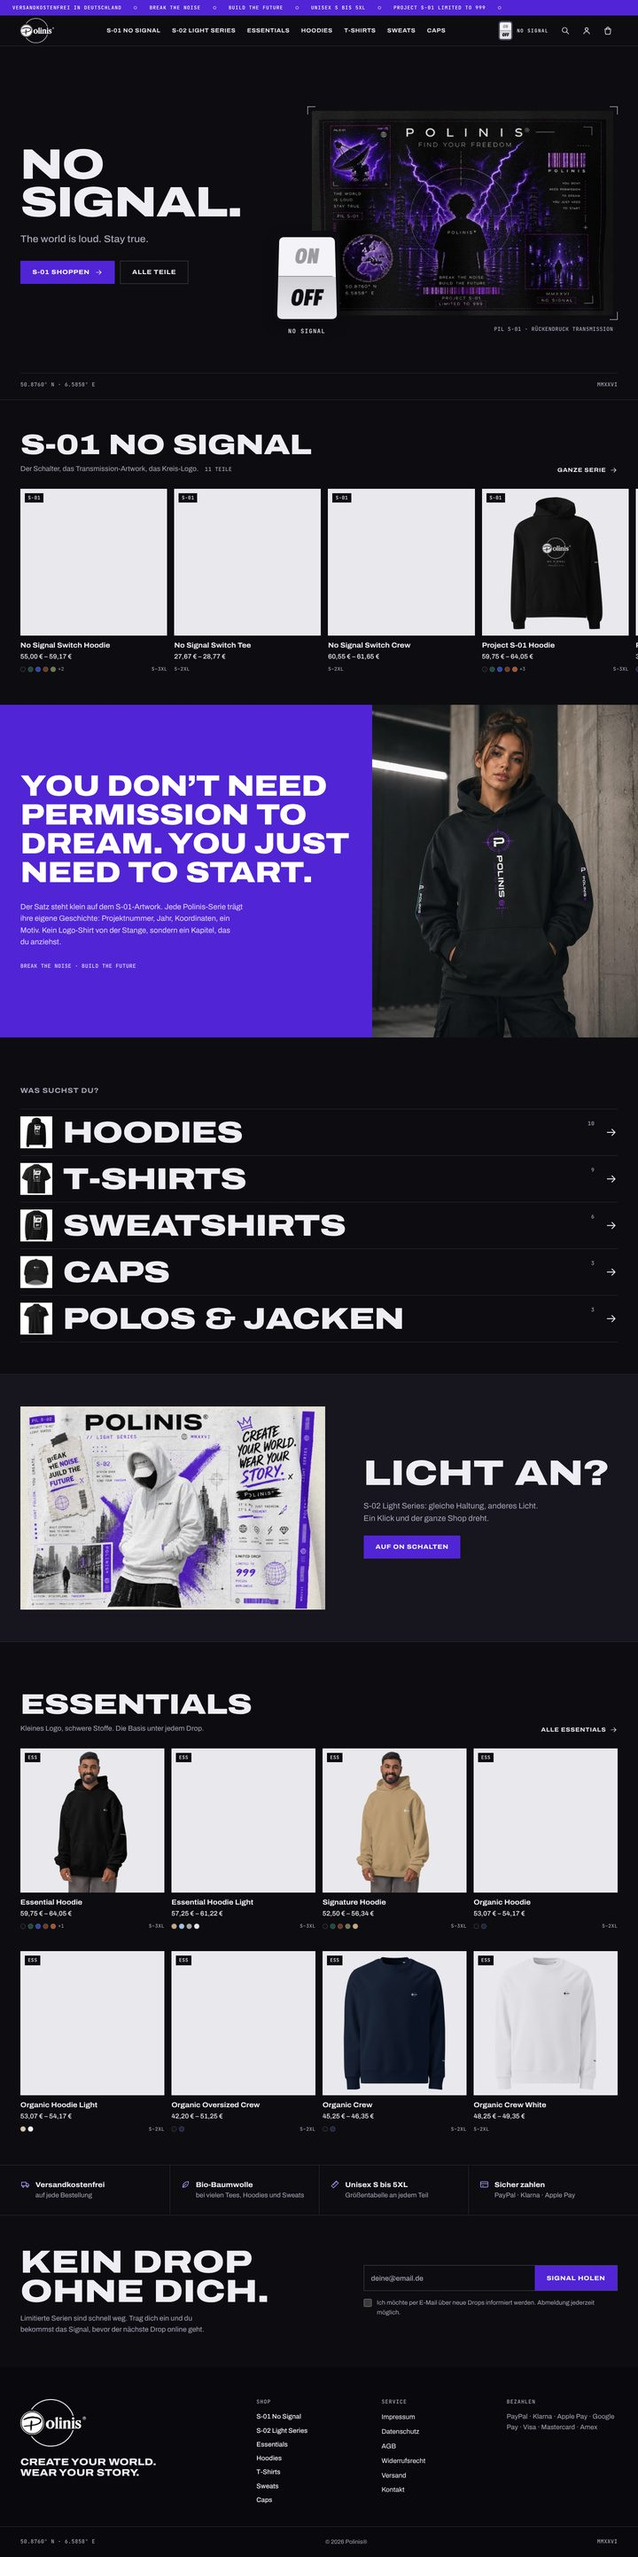
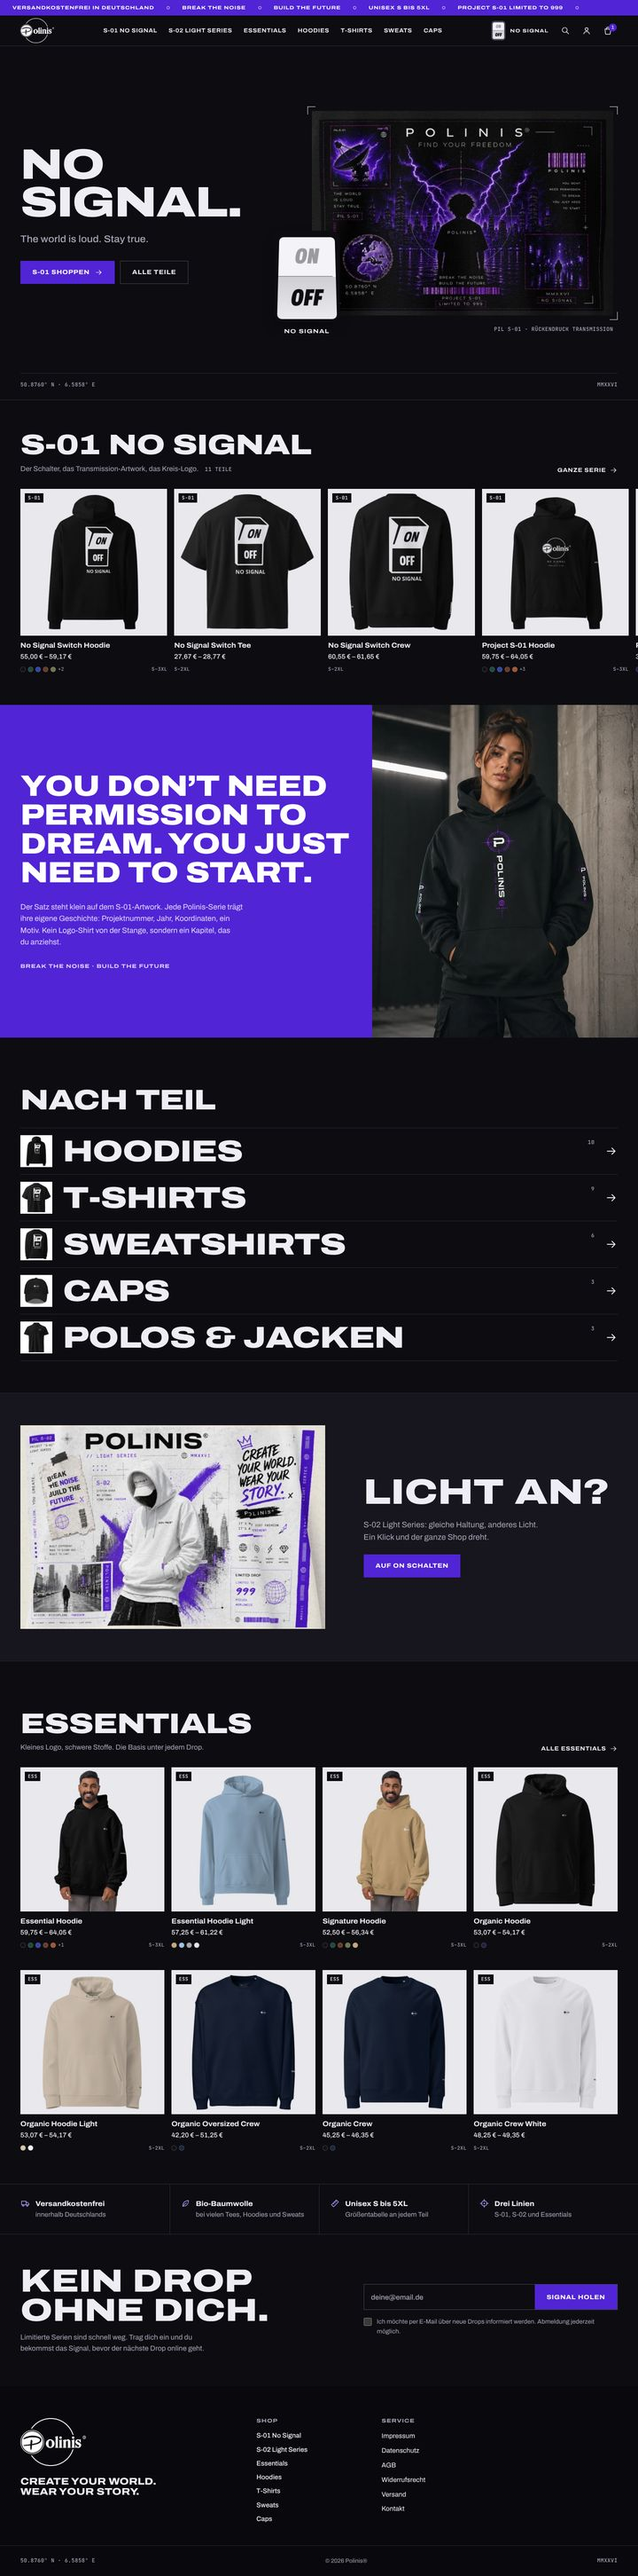
Review-Runde: Zahlarten nur wenn eingerichtet, Labels in Archivo, Handy-Hero, Kategorienliste, Warenkorb-Button
- Zahlungsarten in Footer, Fakten und Produktseite werden aus den aktiven
  WooCommerce-Gateways gebaut statt fest behauptet
- Pflicht-PDFs aus Shopify-Beschreibungen werden beim Import mitgenommen
- Button zeigt 'Erst Größe wählen', solange keine Größe gewählt ist
- Mono nur noch für Daten, Slogans und Labels in Archivo

Claude-Session: https://claude.ai/code/session_01MPyp2hJs9FzBtFF2bzpWwe

diff --git a/wp-content/themes/polinis/assets/css/main.css b/wp-content/themes/polinis/assets/css/main.css
@@ -188,6 +188,19 @@ button {
 	scrollbar-width: thin;
 }
 
+.label,
+.ticker,
+.manifesto__sign,
+.switch__caption,
+.site-footer__head,
+.woocommerce div.product form.cart .variations th label {
+	font-family: var(--f-text) !important;
+	font-stretch: 125%;
+	font-weight: 700 !important;
+	letter-spacing: 0.08em !important;
+	text-transform: uppercase;
+}
+
 .mono {
 	font-family: var(--f-mono);
 	font-size: 0.75rem;
@@ -544,10 +557,7 @@ button {
 	overflow: hidden;
 	background: var(--violet);
 	color: var(--on-violet);
-	font-family: var(--f-mono);
 	font-size: 0.6875rem;
-	font-weight: 500;
-	letter-spacing: 0.1em;
 	text-transform: uppercase;
 }
 
@@ -922,15 +932,14 @@ button {
 	}
 
 	.hero__caption {
-		margin-top: 18px;
-		padding-right: 104px;
+		margin-top: 22px;
+		padding-left: 100px;
 		text-align: left;
 	}
 
 	.hero__switch {
-		left: auto;
-		right: -4px;
-		bottom: -14px;
+		left: 18px;
+		bottom: -6px;
 	}
 
 	.hero__data {
@@ -1244,12 +1253,6 @@ button {
 
 .index__title {
 	margin-bottom: var(--s-6);
-	font-size: 1rem;
-	font-weight: 700;
-	font-stretch: 112%;
-	letter-spacing: 0.06em;
-	text-transform: uppercase;
-	color: var(--ink-2);
 }
 
 .index__list {
@@ -1275,6 +1278,7 @@ button {
 }
 
 .index__name {
+	min-width: 0;
 	font-size: clamp(1.75rem, 5.2vw, 4.25rem);
 	font-weight: 850;
 	font-stretch: 125%;
@@ -1318,6 +1322,10 @@ button {
 	.index__thumb {
 		width: 56px;
 		height: 56px;
+	}
+
+	.index__name {
+		font-size: clamp(1.2rem, 6vw, 1.75rem);
 	}
 
 	.index__row .icon {
@@ -2040,6 +2048,8 @@ select,
 
 .variations .swatch-value {
 	color: var(--ink);
+	font-stretch: 100%;
+	font-weight: 500;
 	text-transform: none;
 	letter-spacing: 0;
 }
@@ -2170,9 +2180,21 @@ select,
 .woocommerce button.button.alt.disabled,
 .woocommerce button.button.alt.disabled:hover,
 .woocommerce button.button:disabled {
-	background: var(--violet);
-	color: var(--on-violet);
-	opacity: 0.45;
+	background: transparent;
+	border: 1px solid var(--line-strong);
+	color: var(--ink);
+	opacity: 1;
+	cursor: not-allowed;
+}
+
+/* Solange keine Größe gewählt ist, sagt der Button, was fehlt. */
+.woocommerce button.single_add_to_cart_button.wc-variation-selection-needed {
+	font-size: 0;
+}
+
+.woocommerce button.single_add_to_cart_button.wc-variation-selection-needed::after {
+	content: "Erst Größe wählen";
+	font-size: 0.9375rem;
 }
 
 .pdp__promises {

diff --git a/wp-content/themes/polinis/assets/js/main.js b/wp-content/themes/polinis/assets/js/main.js
@@ -246,6 +246,24 @@
 			}
 		}
 
+		var colorSelect = form.querySelector('select[name="attribute_pa_farbe"]');
+		var variations = [];
+		try {
+			variations = JSON.parse(form.dataset.product_variations || '[]') || [];
+		} catch (err) {}
+
+		/* Farbe gewählt, Größe noch nicht: trotzdem die passende Farbe zeigen. */
+		function showForColor() {
+			var match = colorSelect && colorSelect.value && variations.find(function (v) {
+				return v.attributes.attribute_pa_farbe === colorSelect.value && v.image && v.image.src;
+			});
+			if (match) {
+				show(match.image.src, match.image.srcset, match.image.alt);
+			} else {
+				show(original.src, original.srcset, original.alt);
+			}
+		}
+
 		window.jQuery(form)
 			.on('found_variation', function (e, variation) {
 				if (variation && variation.image && variation.image.src) {
@@ -253,23 +271,12 @@
 				}
 			})
 			.on('reset_image', function () {
-				show(original.src, original.srcset, original.alt);
+				window.setTimeout(showForColor, 0);
 			});
 
-		/* Farbe gewählt, Größe noch nicht: schon mal die passende Farbe zeigen. */
-		var colorSelect = form.querySelector('select[name="attribute_pa_farbe"]');
-		var variations = [];
-		try {
-			variations = JSON.parse(form.dataset.product_variations || '[]') || [];
-		} catch (err) {}
-		if (colorSelect && variations.length) {
+		if (colorSelect) {
 			colorSelect.addEventListener('change', function () {
-				var match = variations.find(function (v) {
-					return v.attributes.attribute_pa_farbe === colorSelect.value && v.image && v.image.src;
-				});
-				if (match) {
-					show(match.image.src, match.image.srcset, match.image.alt);
-				}
+				window.setTimeout(showForColor, 0);
 			});
 		}
 	}

diff --git a/wp-content/themes/polinis/front-page.php b/wp-content/themes/polinis/front-page.php
@@ -85,7 +85,7 @@ $polinis_cats    = array( 'hoodies' => 'Hoodies', 't-shirts' => 'T-Shirts', 'swe
 	</section>
 
 	<section class="index" aria-labelledby="index-title">
-		<h2 id="index-title" class="index__title"><?php esc_html_e( 'Was suchst du?', 'polinis' ); ?></h2>
+		<h2 id="index-title" class="index__title section-head__title"><?php esc_html_e( 'Nach Teil', 'polinis' ); ?></h2>
 		<ul class="index__list">
 			<?php
 			foreach ( $polinis_cats as $polinis_slug => $polinis_label ) :
@@ -142,10 +142,14 @@ $polinis_cats    = array( 'hoodies' => 'Hoodies', 't-shirts' => 'T-Shirts', 'swe
 
 	<section class="facts" aria-label="<?php esc_attr_e( 'Gut zu wissen', 'polinis' ); ?>">
 		<ul class="facts__list">
-			<li><?php echo polinis_icon( 'truck' ); ?><strong><?php esc_html_e( 'Versandkostenfrei', 'polinis' ); ?></strong><span><?php esc_html_e( 'auf jede Bestellung', 'polinis' ); ?></span></li>
+			<li><?php echo polinis_icon( 'truck' ); ?><strong><?php esc_html_e( 'Versandkostenfrei', 'polinis' ); ?></strong><span><?php esc_html_e( 'innerhalb Deutschlands', 'polinis' ); ?></span></li>
 			<li><?php echo polinis_icon( 'leaf' ); ?><strong><?php esc_html_e( 'Bio-Baumwolle', 'polinis' ); ?></strong><span><?php esc_html_e( 'bei vielen Tees, Hoodies und Sweats', 'polinis' ); ?></span></li>
 			<li><?php echo polinis_icon( 'ruler' ); ?><strong><?php esc_html_e( 'Unisex S bis 5XL', 'polinis' ); ?></strong><span><?php esc_html_e( 'Größentabelle an jedem Teil', 'polinis' ); ?></span></li>
-			<li><?php echo polinis_icon( 'card' ); ?><strong><?php esc_html_e( 'Sicher zahlen', 'polinis' ); ?></strong><span>PayPal · Klarna · Apple Pay</span></li>
+			<?php if ( function_exists( 'polinis_payment_labels' ) && polinis_payment_labels() ) : ?>
+				<li><?php echo polinis_icon( 'card' ); ?><strong><?php esc_html_e( 'Sicher zahlen', 'polinis' ); ?></strong><span><?php echo esc_html( implode( ' · ', polinis_payment_labels() ) ); ?></span></li>
+			<?php else : ?>
+				<li><?php echo polinis_icon( 'target' ); ?><strong><?php esc_html_e( 'Drei Linien', 'polinis' ); ?></strong><span><?php esc_html_e( 'S-01, S-02 und Essentials', 'polinis' ); ?></span></li>
+			<?php endif; ?>
 		</ul>
 	</section>
 

diff --git a/wp-content/themes/polinis/inc/woocommerce.php b/wp-content/themes/polinis/inc/woocommerce.php
@@ -56,9 +56,11 @@ add_action( 'woocommerce_single_product_summary', 'polinis_single_promises', 35 
 function polinis_single_promises() {
 	?>
 	<ul class="pdp__promises">
-		<li><?php echo polinis_icon( 'truck' ); ?><?php esc_html_e( 'Versandkostenfrei', 'polinis' ); ?></li>
+		<li><?php echo polinis_icon( 'truck' ); ?><?php esc_html_e( 'Versandkostenfrei in Deutschland', 'polinis' ); ?></li>
 		<li><?php echo polinis_icon( 'ruler' ); ?><?php esc_html_e( 'Unisex-Schnitt, Größentabelle unten', 'polinis' ); ?></li>
-		<li><?php echo polinis_icon( 'card' ); ?><?php esc_html_e( 'PayPal, Klarna, Apple Pay, Karte', 'polinis' ); ?></li>
+		<?php if ( polinis_payment_labels() ) : ?>
+			<li><?php echo polinis_icon( 'card' ); ?><?php echo esc_html( implode( ', ', polinis_payment_labels() ) ); ?></li>
+		<?php endif; ?>
 	</ul>
 	<?php
 }
@@ -112,6 +114,34 @@ add_filter(
 		return $fragments;
 	}
 );
+
+/* ---------- Zahlarten: nur zeigen, was wirklich eingerichtet ist ---------- */
+
+function polinis_payment_labels() {
+	if ( ! function_exists( 'WC' ) || ! WC()->payment_gateways() ) {
+		return array();
+	}
+	$names = array(
+		'ppcp-gateway'        => 'PayPal',
+		'ppcp'                => 'PayPal',
+		'paypal'              => 'PayPal',
+		'klarna_payments'     => 'Klarna',
+		'kco'                 => 'Klarna',
+		'stripe'              => 'Karte',
+		'stripe_applepay'     => 'Apple Pay',
+		'stripe_googlepay'    => 'Google Pay',
+		'woocommerce_payments' => 'Karte',
+		'bacs'                => 'Überweisung',
+		'cod'                 => 'Nachnahme',
+	);
+	$labels = array();
+	foreach ( WC()->payment_gateways()->payment_gateways() as $id => $gateway ) {
+		if ( 'yes' === $gateway->enabled ) {
+			$labels[] = $names[ $id ] ?? wp_strip_all_tags( $gateway->get_title() );
+		}
+	}
+	return array_values( array_unique( $labels ) );
+}
 
 /* ---------- Helfer für Karten ---------- */
 

diff --git a/wp-content/themes/polinis/footer.php b/wp-content/themes/polinis/footer.php
@@ -34,10 +34,12 @@
 			<?php polinis_legal_nav(); ?>
 		</div>
 
+		<?php if ( function_exists( 'polinis_payment_labels' ) && polinis_payment_labels() ) : ?>
 		<div class="site-footer__col">
 			<h2 class="site-footer__head"><?php esc_html_e( 'Bezahlen', 'polinis' ); ?></h2>
-			<p class="site-footer__pay">PayPal · Klarna · Apple Pay · Google Pay · Visa · Mastercard · Amex</p>
+			<p class="site-footer__pay"><?php echo esc_html( implode( ' · ', polinis_payment_labels() ) ); ?></p>
 		</div>
+		<?php endif; ?>
 	</div>
 
 	<div class="site-footer__base">
